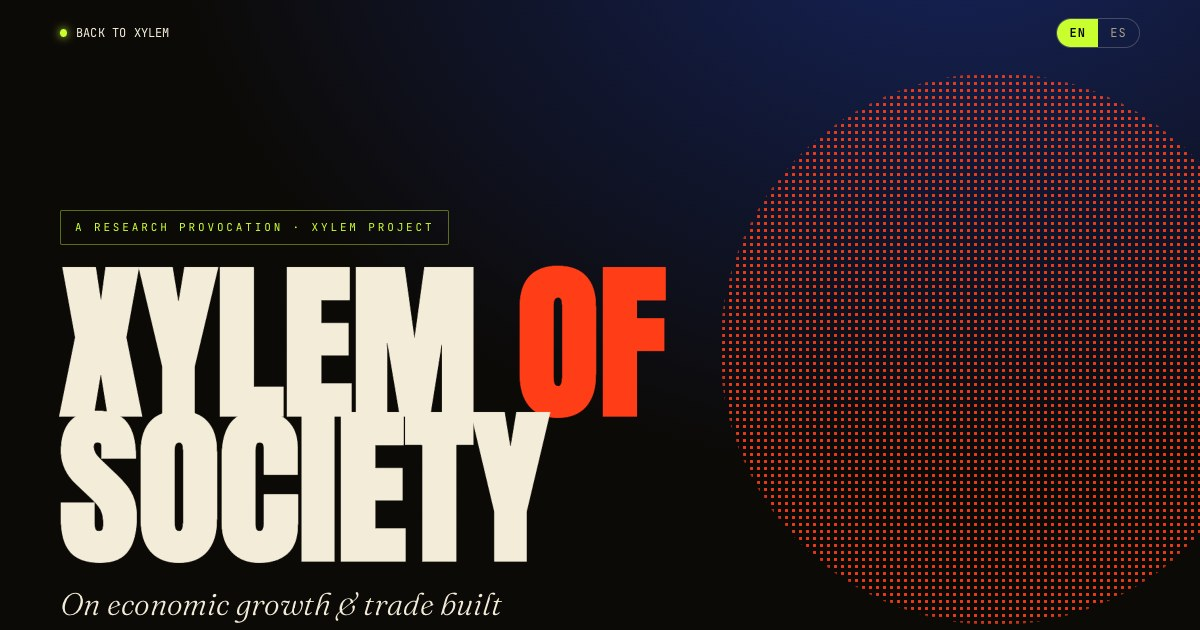
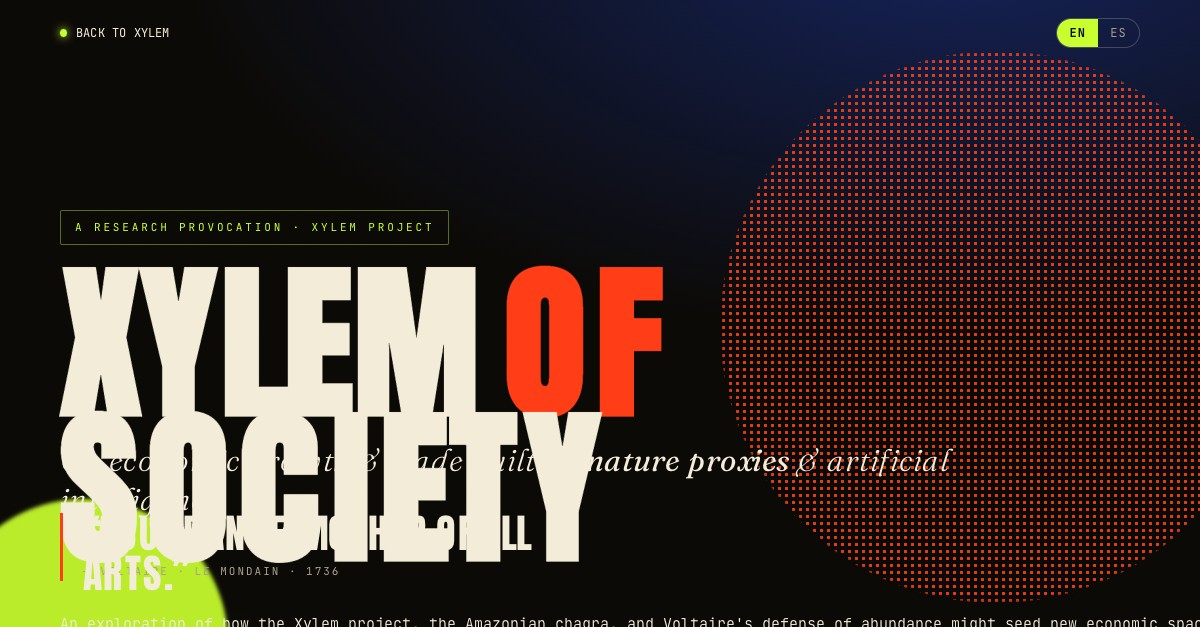
Fix LinkedIn link previews and XYLEM title line break
Use a dedicated OG social card at 1200x627, align meta tags with xylem-bio.vercel.app, simplify og:title for LinkedIn, and prevent Pretext hero title from wrapping mid-word.

diff --git a/public/og/social-card.html b/public/og/social-card.html
@@ -1,0 +1,129 @@
+<!DOCTYPE html>
+<html lang="en">
+<head>
+<meta charset="utf-8" />
+<meta name="viewport" content="width=1200, height=627" />
+<title>XYLEM OG Card</title>
+<link rel="preconnect" href="https://fonts.googleapis.com" />
+<link rel="preconnect" href="https://fonts.gstatic.com" crossorigin />
+<link href="https://fonts.googleapis.com/css2?family=Fraunces:opsz,wght@9..144,600&family=JetBrains+Mono:wght@400;500&display=swap" rel="stylesheet" />
+<style>
+  * { box-sizing: border-box; margin: 0; padding: 0; }
+  html, body {
+    width: 1200px;
+    height: 627px;
+    overflow: hidden;
+    background: #060b1a;
+    color: #eef2f7;
+    font-family: 'Fraunces', Georgia, serif;
+  }
+  .card {
+    position: relative;
+    width: 1200px;
+    height: 627px;
+    padding: 72px 80px;
+    background:
+      radial-gradient(120% 90% at 82% -10%, rgba(35, 72, 212, 0.32), transparent 55%),
+      radial-gradient(80% 70% at -5% 110%, rgba(72, 219, 230, 0.12), transparent 60%),
+      #060b1a;
+  }
+  .veins {
+    position: absolute;
+    inset: 0;
+    opacity: 0.45;
+    pointer-events: none;
+  }
+  .brand {
+    font-family: 'JetBrains Mono', monospace;
+    font-size: 13px;
+    letter-spacing: 0.28em;
+    text-transform: uppercase;
+    color: #7c89a8;
+    display: flex;
+    align-items: center;
+    gap: 10px;
+    margin-bottom: 48px;
+  }
+  .brand .dot {
+    width: 8px;
+    height: 8px;
+    border-radius: 50%;
+    background: #48dbe6;
+    box-shadow: 0 0 12px #48dbe6;
+  }
+  h1 {
+    font-size: 132px;
+    font-weight: 600;
+    line-height: 0.92;
+    letter-spacing: -0.03em;
+    white-space: nowrap;
+  }
+  h1 .y {
+    font-style: italic;
+    font-weight: 300;
+    color: #48dbe6;
+  }
+  .lead {
+    margin-top: 28px;
+    max-width: 720px;
+    font-family: 'JetBrains Mono', monospace;
+    font-size: 22px;
+    line-height: 1.45;
+    letter-spacing: 0.04em;
+    color: #cdd5e4;
+  }
+  .lead b {
+    color: #48dbe6;
+    font-weight: 500;
+  }
+  .tag {
+    position: absolute;
+    left: 80px;
+    bottom: 64px;
+    font-family: 'JetBrains Mono', monospace;
+    font-size: 12px;
+    letter-spacing: 0.22em;
+    text-transform: uppercase;
+    color: #83e08a;
+  }
+  .panel {
+    position: absolute;
+    right: 64px;
+    bottom: 56px;
+    width: 360px;
+    border: 1px solid rgba(124, 137, 168, 0.22);
+    background: rgba(4, 10, 26, 0.72);
+    padding: 18px 20px;
+    font-family: 'JetBrains Mono', monospace;
+    font-size: 11px;
+    line-height: 1.55;
+    color: #7c89a8;
+  }
+  .panel .hl { color: #48dbe6; }
+</style>
+</head>
+<body>
+  <div class="card">
+    <svg class="veins" viewBox="0 0 1200 627" aria-hidden="true">
+      <g stroke="rgba(124,137,168,.16)" stroke-width="1" fill="none">
+        <path d="M80 627 C80 420 40 340 80 220 C110 150 80 90 140 20" />
+        <path d="M360 627 C360 450 400 360 360 250 C330 170 380 110 340 0" />
+        <path d="M600 650 C600 450 600 330 600 210 C600 120 600 50 600 -30" />
+        <path d="M840 627 C840 440 800 350 840 250 C870 170 820 110 880 0" />
+        <path d="M1120 627 C1120 420 1160 340 1120 220 C1090 150 1140 90 1080 20" />
+      </g>
+    </svg>
+    <div class="brand"><span class="dot"></span> XYLEM / symbiotic code</div>
+    <h1>X<span class="y">y</span>lem</h1>
+    <p class="lead">Biomimicry + Agentic AI for task optimisation in 3D simulation. Nature read as <b>model, measure &amp; mentor</b>.</p>
+    <div class="tag">MODEL · MEASURE · MENTOR</div>
+    <pre class="panel">XYLEM // SYMBIOTIC CODE v.2026
+────────────────────────
+001  HUMAN      benchmark
+010  DIJKSTRA   shortest path
+011  ANTS       colony intelligence
+100  PHYSARUM   slime pathfinding
+101  RIVER      flow networks</pre>
+  </div>
+</body>
+</html>

diff --git a/vite.config.ts b/vite.config.ts
@@ -1,6 +1,28 @@
-import { defineConfig } from 'vite'
+import { defineConfig, type Plugin } from 'vite'
 import react from '@vitejs/plugin-react'
 
+const OG_ORIGIN = process.env.VERCEL_PROJECT_PRODUCTION_URL
+  ? `https://${process.env.VERCEL_PROJECT_PRODUCTION_URL}`
+  : process.env.OG_ORIGIN || 'https://xylem-bio.vercel.app'
+
+const OG_IMAGE = `${OG_ORIGIN}/og/home.jpg?v=3`
+const OG_TITLE = 'XYLEM - Biomimicry and Agentic AI'
+const OG_DESCRIPTION =
+  'Biomimicry and Agentic AI for task optimisation in 3D simulation. Nature read as model, measure and mentor.'
+
+function ogMetaPlugin(): Plugin {
+  return {
+    name: 'og-meta',
+    transformIndexHtml(html) {
+      return html
+        .replaceAll('__OG_ORIGIN__', OG_ORIGIN)
+        .replaceAll('__OG_IMAGE__', OG_IMAGE)
+        .replaceAll('__OG_TITLE__', OG_TITLE)
+        .replaceAll('__OG_DESCRIPTION__', OG_DESCRIPTION)
+    },
+  }
+}
+
 export default defineConfig({
-  plugins: [react()],
+  plugins: [react(), ogMetaPlugin()],
 })

diff --git a/index.html b/index.html
@@ -4,20 +4,22 @@
     <meta charset="UTF-8" />
     <link rel="icon" type="image/svg+xml" href="/favicon.svg" />
     <meta name="viewport" content="width=device-width, initial-scale=1.0" />
-    <meta name="description" content="XYLEM — Biomimicry × Agentic AI. A research practice where nature is read as model, measure and mentor." />
+    <meta name="description" content="__OG_DESCRIPTION__" />
     <meta property="og:type" content="website" />
     <meta property="og:site_name" content="XYLEM" />
-    <meta property="og:title" content="XYLEM — Biomimicry × Agentic AI" />
-    <meta property="og:description" content="Biomimicry + Agentic AI for task optimisation in 3D simulation. Nature read as model, measure and mentor." />
-    <meta property="og:url" content="https://xylem-site.vercel.app/" />
-    <meta property="og:image" content="https://xylem-site.vercel.app/og/home.jpg" />
+    <meta property="og:title" content="__OG_TITLE__" />
+    <meta property="og:description" content="__OG_DESCRIPTION__" />
+    <meta property="og:url" content="__OG_ORIGIN__/" />
+    <meta property="og:image" content="__OG_IMAGE__" />
+    <meta property="og:image:secure_url" content="__OG_IMAGE__" />
+    <meta property="og:image:type" content="image/jpeg" />
     <meta property="og:image:width" content="1200" />
-    <meta property="og:image:height" content="630" />
-    <meta property="og:image:alt" content="XYLEM homepage — biomimicry and agentic AI research site" />
+    <meta property="og:image:height" content="627" />
+    <meta property="og:image:alt" content="XYLEM homepage - biomimicry and agentic AI research" />
     <meta name="twitter:card" content="summary_large_image" />
-    <meta name="twitter:title" content="XYLEM — Biomimicry × Agentic AI" />
-    <meta name="twitter:description" content="Biomimicry + Agentic AI for task optimisation in 3D simulation." />
-    <meta name="twitter:image" content="https://xylem-site.vercel.app/og/home.jpg" />
+    <meta name="twitter:title" content="__OG_TITLE__" />
+    <meta name="twitter:description" content="__OG_DESCRIPTION__" />
+    <meta name="twitter:image" content="__OG_IMAGE__" />
     <link rel="preconnect" href="https://fonts.googleapis.com" />
     <link rel="preconnect" href="https://fonts.gstatic.com" crossorigin />
     <link href="https://fonts.googleapis.com/css2?family=Anton&family=Fraunces:ital,opsz,wght@0,9..144,300;0,9..144,400;0,9..144,500;0,9..144,600;0,9..144,700;0,9..144,900;1,9..144,300;1,9..144,400&family=JetBrains+Mono:wght@300;400;500;700&display=swap" rel="stylesheet" />

diff --git a/public/og/society-preview.html b/public/og/society-preview.html
@@ -8,15 +8,17 @@
 <meta property="og:site_name" content="XYLEM" />
 <meta property="og:title" content="Xylem of Society — Economic Growth &amp; Trade on Nature Proxies &amp; AI" />
 <meta property="og:description" content="A provocation on trade, Voltaire, chagra, and biomimicry proxies — how nature intelligence meets economic coordination." />
-<meta property="og:url" content="https://xylem-site.vercel.app/xylem-of-society" />
-<meta property="og:image" content="https://xylem-site.vercel.app/og/society.jpg" />
+<meta property="og:url" content="https://xylem-bio.vercel.app/xylem-of-society" />
+<meta property="og:image" content="https://xylem-bio.vercel.app/og/society.jpg?v=3" />
+<meta property="og:image:secure_url" content="https://xylem-bio.vercel.app/og/society.jpg?v=3" />
+<meta property="og:image:type" content="image/jpeg" />
 <meta property="og:image:width" content="1200" />
-<meta property="og:image:height" content="630" />
+<meta property="og:image:height" content="627" />
 <meta name="twitter:card" content="summary_large_image" />
 <meta name="twitter:title" content="Xylem of Society" />
 <meta name="twitter:description" content="Trade, Voltaire, chagra, and biomimicry proxies for economic coordination." />
-<meta name="twitter:image" content="https://xylem-site.vercel.app/og/society.jpg" />
-<link rel="canonical" href="https://xylem-site.vercel.app/xylem-of-society" />
+<meta name="twitter:image" content="https://xylem-bio.vercel.app/og/society.jpg?v=3" />
+<link rel="canonical" href="https://xylem-bio.vercel.app/xylem-of-society" />
 </head>
 <body></body>
 </html>

diff --git a/legacy/tide-xylem-deck.html b/legacy/tide-xylem-deck.html
@@ -9,15 +9,17 @@
 <meta property="og:site_name" content="XYLEM × TIDE">
 <meta property="og:title" content="Xylem × TIDE — Biomimicry & Agentic AI for Development">
 <meta property="og:description" content="Collaboration proposal for TIDE Centre, University of Oxford. Nature as model, measure and mentor — turned into algorithms for development.">
-<meta property="og:url" content="https://xylem-site.vercel.app/legacy/tide-xylem-deck.html">
-<meta property="og:image" content="https://xylem-site.vercel.app/og/tide-deck.jpg">
+<meta property="og:url" content="https://xylem-bio.vercel.app/legacy/tide-xylem-deck.html">
+<meta property="og:image" content="https://xylem-bio.vercel.app/og/tide-deck.jpg?v=3">
+<meta property="og:image:secure_url" content="https://xylem-bio.vercel.app/og/tide-deck.jpg?v=3">
+<meta property="og:image:type" content="image/jpeg">
 <meta property="og:image:width" content="1200">
-<meta property="og:image:height" content="630">
+<meta property="og:image:height" content="627">
 <meta property="og:image:alt" content="Xylem × TIDE collaboration deck — opening slide">
 <meta name="twitter:card" content="summary_large_image">
 <meta name="twitter:title" content="Xylem × TIDE — Biomimicry & Agentic AI for Development">
 <meta name="twitter:description" content="Collaboration proposal for Oxford TIDE Centre — biomimicry and agentic AI for development.">
-<meta name="twitter:image" content="https://xylem-site.vercel.app/og/tide-deck.jpg">
+<meta name="twitter:image" content="https://xylem-bio.vercel.app/og/tide-deck.jpg?v=3">
 <link rel="preconnect" href="https://fonts.googleapis.com">
 <link rel="preconnect" href="https://fonts.gstatic.com" crossorigin>
 <link href="https://fonts.googleapis.com/css2?family=Fraunces:ital,opsz,wght@0,9..144,300;0,9..144,400;0,9..144,500;0,9..144,600;0,9..144,700;1,9..144,300;1,9..144,400&family=JetBrains+Mono:wght@300;400;500;700&display=swap" rel="stylesheet">

diff --git a/src/styles/home.css b/src/styles/home.css
@@ -232,6 +232,11 @@ h1.title {
   animation: rise 1s 0.35s forwards;
 }
 
+h1.title.pretext-hover {
+  width: max-content;
+  max-width: 100%;
+}
+
 h1.title .x {
   font-style: italic;
   font-weight: 300;